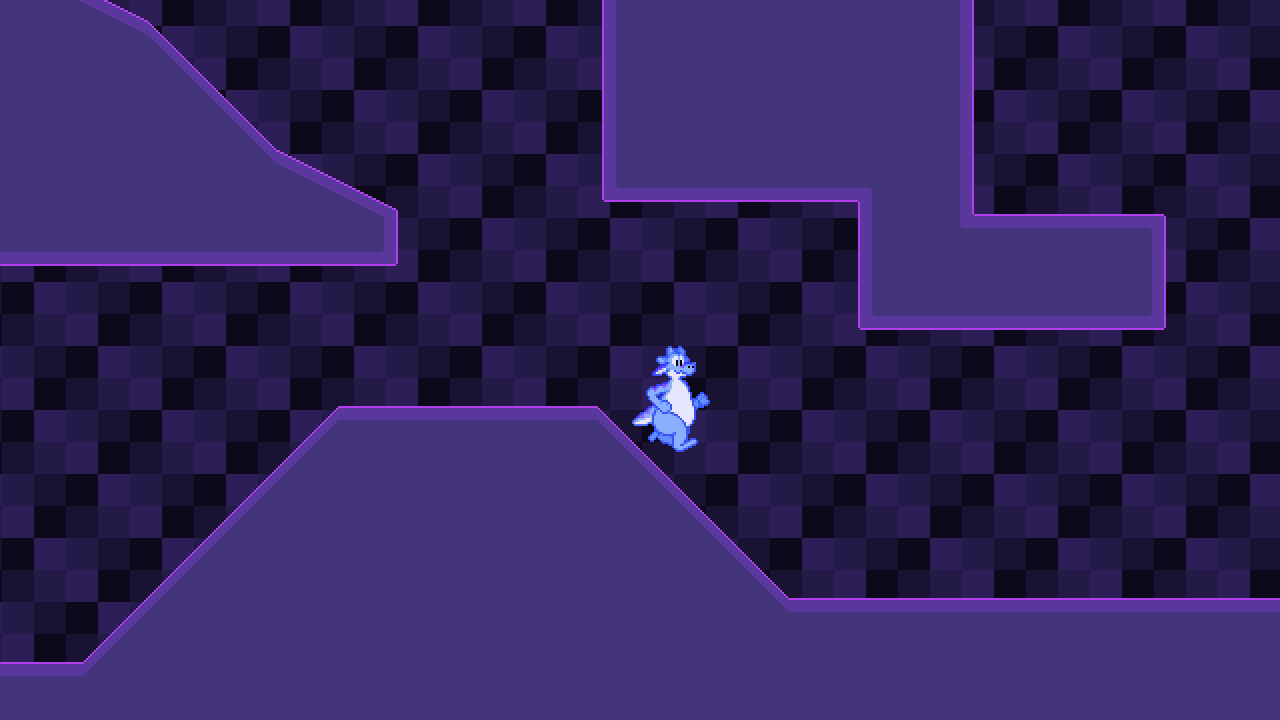
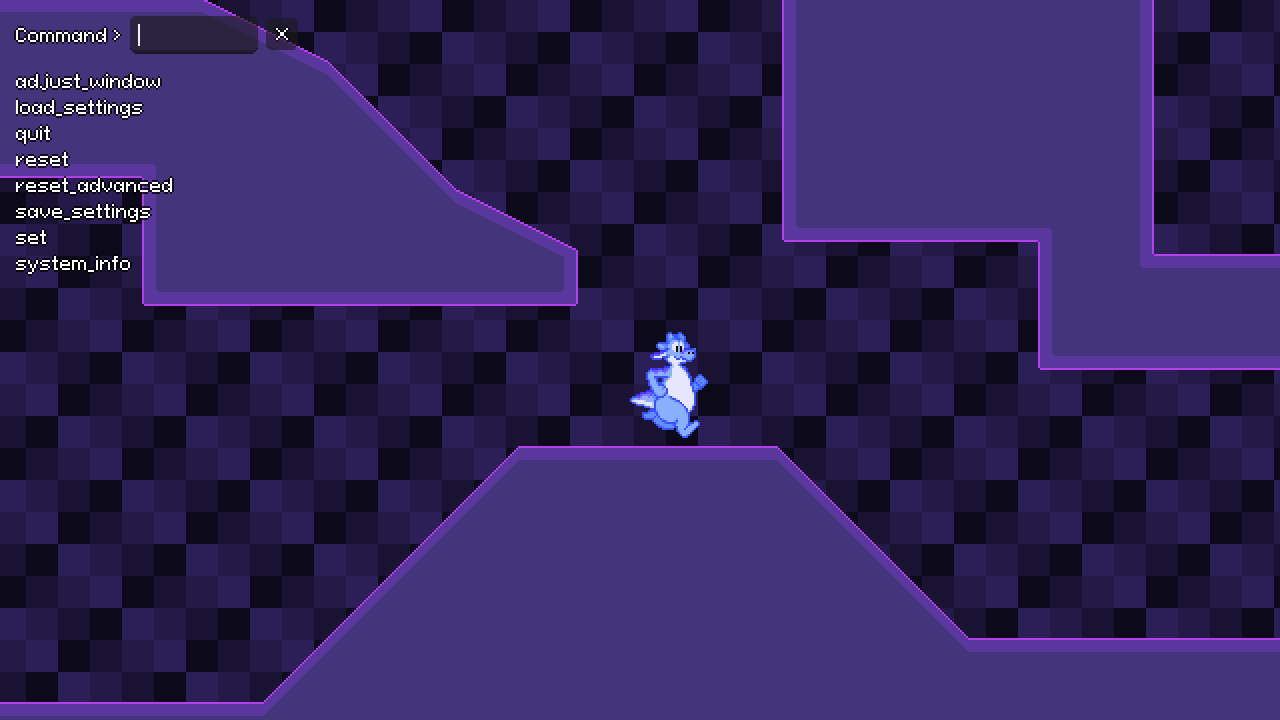
Update README, screenshot

diff --git a/README.md b/README.md
@@ -8,6 +8,16 @@ This project's motto is "frame-perfect detail, down to the pixel".
 
 ![Screenshot of Gobold](https://raw.githubusercontent.com/KeyboardDanni/gobold/main/screenshot.png)
 
+## Features
+
+- Character controller with specialized slope handling.
+- Clean pixel-perfect camera movement.
+- Game settings framework.
+- Display manager with automatic pixel scaling options and Alt + Enter shortcut for fullscreen.
+- Automatic physics interpolation toggle for the smoothest physics motion at any refresh rate.
+- Low latency mode enabled for refresh rates below 120hz.
+- In-game developer command interface (Tilde key) with support for autocomplete and custom commands.
+
 ## Prerequisites
 
 - Godot 4.4 stable (might change in the future)
